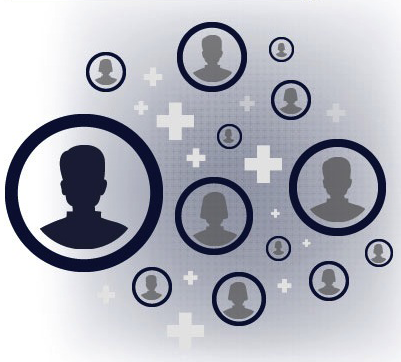
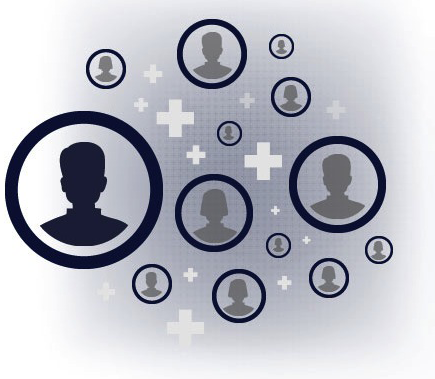
share image

diff --git a/thank-you.html b/thank-you.html
@@ -13,8 +13,6 @@ title: Thank You
 		You're almost done — just share this page with your friends to multiply your impact.
 	</h3>
 
-	<img src="./images/share-image.png" style="max-width:75%;">
-
 	<div class="thank-you-buttons">
 
 		<button class="facebook share-button">Share on Facebook</button>
@@ -22,5 +20,7 @@ title: Thank You
 		<button class="email share-button">Email your friends</button>
 
 	</div>
+
+	<img src="./images/share-image.png" class="share-image">
 
 </div>

diff --git a/css/credohousecalls.css b/css/credohousecalls.css
@@ -195,6 +195,13 @@
         margin-bottom:30px;
     }
 
+    .share-image {
+        width: 350px;
+        margin: 0 auto;
+        display: block;
+        max-width:100%;
+    }
+
 /* Form Design */
 
     button {
